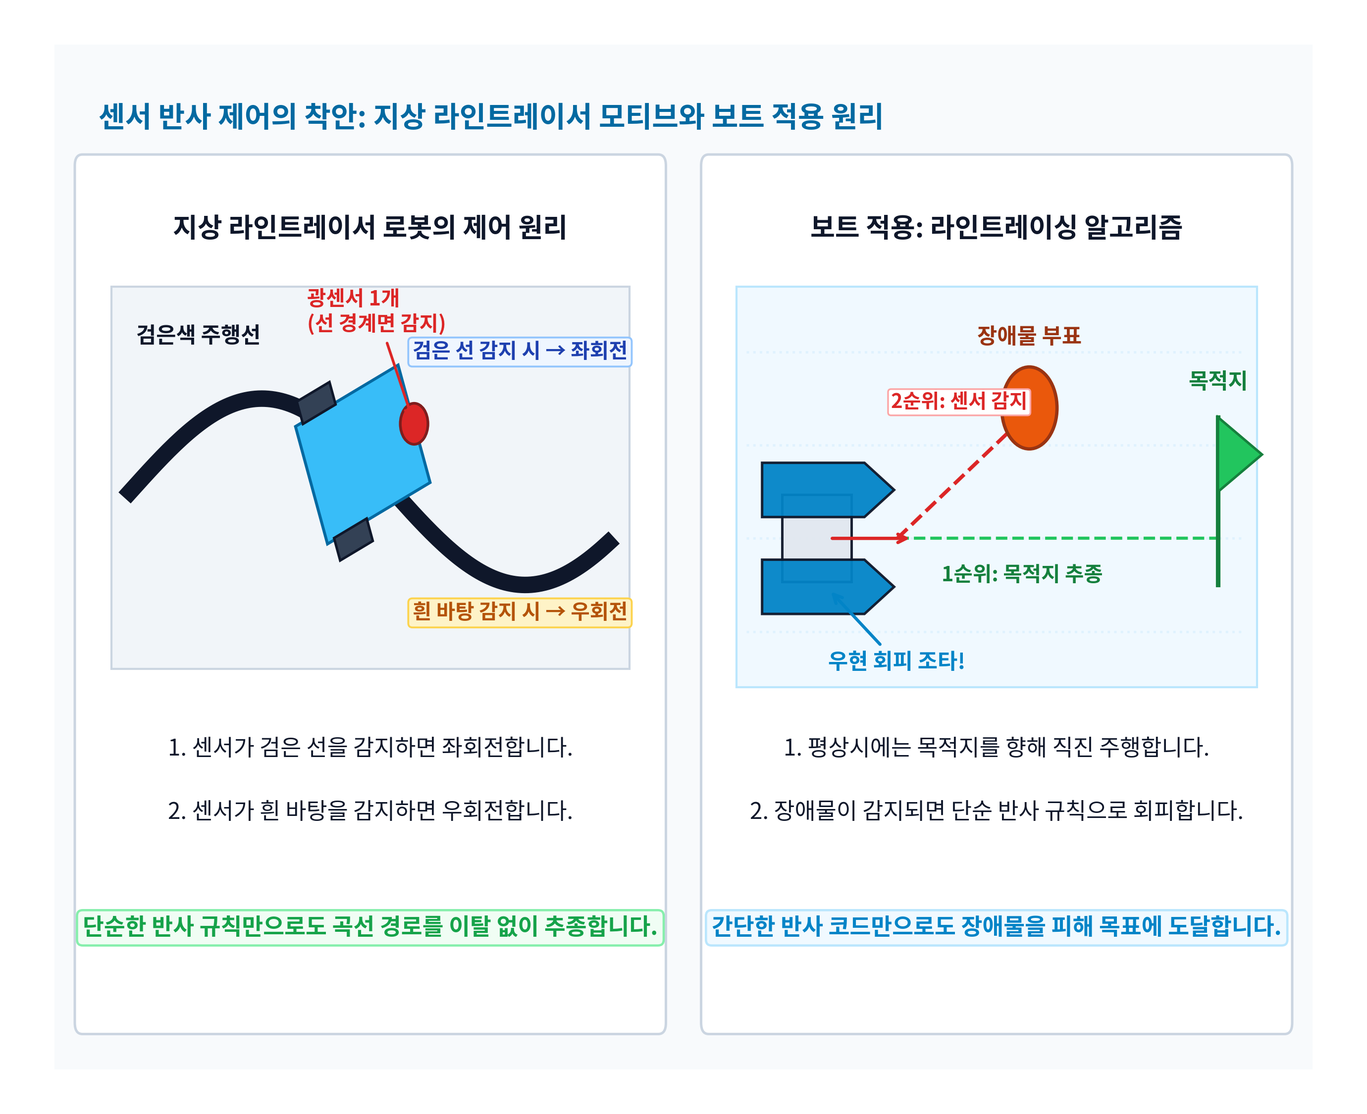
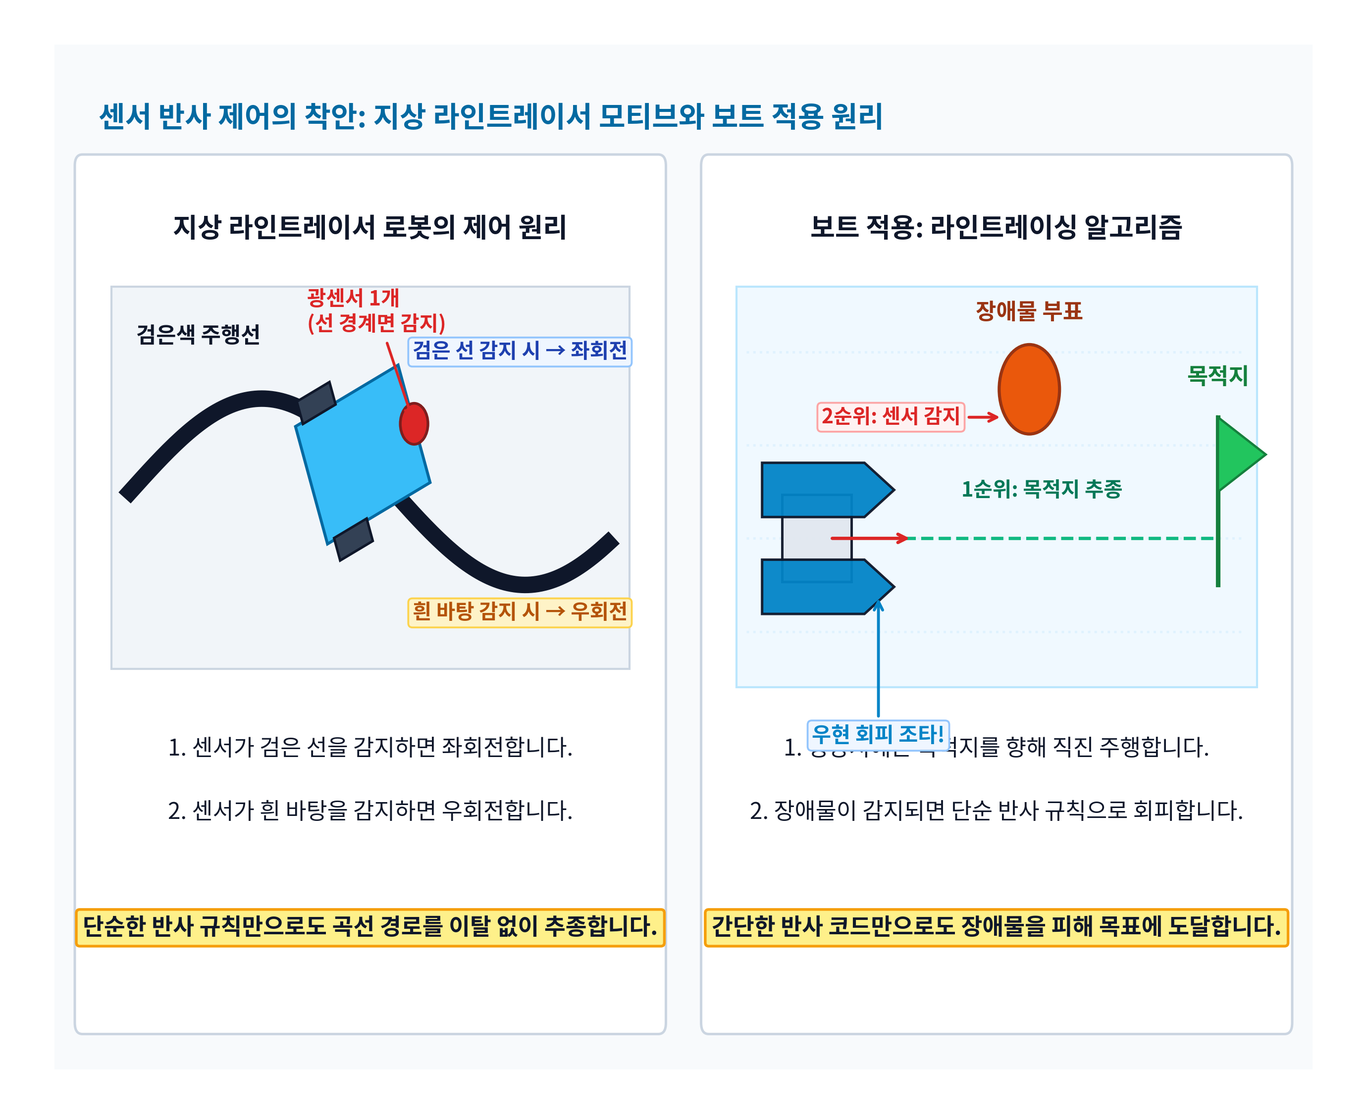
feat(sheet1): apply fluorescent highlighter styling to core sentences and takeaways

diff --git a/report4/generate_sheet1_master.py b/report4/generate_sheet1_master.py
@@ -129,8 +129,8 @@ def generate_subfig1():
     ax1.text(2.51, 1.72, "1. 센서가 검은 선을 감지하면 좌회전합니다.", ha='center', va='center', fontsize=11.0, color='#0F172A')
     ax1.text(2.51, 1.38, "2. 센서가 흰 바탕을 감지하면 우회전합니다.", ha='center', va='center', fontsize=11.0, color='#0F172A')
     ax1.text(2.51, 0.76, "단순한 반사 규칙만으로도 곡선 경로를 이탈 없이 추종합니다.", 
-             ha='center', va='center', fontsize=11.2, fontweight='bold', color=COLOR_SUCCESS,
-             bbox=dict(boxstyle='round,pad=0.25', fc=COLOR_SUCCESS_BG, ec=COLOR_SUCCESS_BORDER, lw=1.1))
+             ha='center', va='center', fontsize=11.2, fontweight='bold', color='#0F172A',
+             bbox=dict(boxstyle='round,pad=0.28,rounding_size=0.15', fc='#FEF08A', ec='#F59E0B', lw=1.3))
     
     # Right Column: Boat Adaptation
     ax1.add_patch(FancyBboxPatch((5.20, 0.25), 4.58, 4.60, boxstyle="round,pad=0.06", 
@@ -146,30 +146,32 @@ def generate_subfig1():
     
     goal_x, goal_y = 9.25, 2.85
     ax1.plot([goal_x, goal_x], [goal_y - 0.25, goal_y + 0.65], color='#15803D', lw=2.2, zorder=8)
-    ax1.add_patch(Polygon([(goal_x, goal_y + 0.65), (goal_x + 0.35, goal_y + 0.45), (goal_x, goal_y + 0.25)],
-                         closed=True, fc='#22C55E', ec='#15803D', lw=1.2, zorder=9))
-    ax1.text(goal_x, goal_y + 0.78, "목적지", ha='center', va='bottom', fontsize=10.5, fontweight='bold', color='#15803D')
+    ax1.add_patch(Polygon([(goal_x, goal_y + 0.65), (goal_x + 0.38, goal_y + 0.45), (goal_x, goal_y + 0.25)],
+                         closed=True, fc='#22C55E', ec='#15803D', lw=1.1, zorder=9))
+    ax1.text(goal_x, goal_y + 0.80, "목적지", ha='center', va='bottom', fontsize=11.0, fontweight='bold', color='#15803D')
     
-    ax1.plot([6.70, goal_x], [2.85, 2.85], color='#22C55E', lw=1.5, ls='--', zorder=4)
-    ax1.text(7.05, 2.62, "1순위: 목적지 추종", fontsize=10.0, fontweight='bold', color='#15803D')
+    ax1.plot([6.75, goal_x], [2.85, goal_y], color='#10B981', lw=1.6, ls='--', zorder=4)
+    ax1.text(7.85, 3.05, "1순위: 목적지 추종", ha='center', va='bottom', fontsize=10.0, fontweight='bold', color='#047857')
     
-    buoy_x, buoy_y = 7.75, 3.55
-    ax1.add_patch(Circle((buoy_x, buoy_y), 0.22, fc=COLOR_WARN, ec='#9A3412', lw=1.6, zorder=8))
-    ax1.text(buoy_x, buoy_y + 0.32, "장애물 부표", ha='center', va='bottom', fontsize=10.5, fontweight='bold', color='#9A3412')
+    buoy_gx, buoy_gy = 7.75, 3.65
+    ax1.add_patch(Circle((buoy_gx, buoy_gy), 0.24, fc=COLOR_WARN, ec='#9A3412', lw=1.5, zorder=8))
+    ax1.text(buoy_gx, buoy_gy + 0.35, "장애물 부표", ha='center', va='bottom', fontsize=10.8, fontweight='bold', color='#9A3412')
     
-    ax1.plot([6.70, buoy_x - 0.15], [2.85, buoy_y - 0.12], color='#DC2626', lw=1.8, ls='--', zorder=5)
-    ax1.text(6.65, 3.55, "2순위: 센서 감지", fontsize=9.6, fontweight='bold', color='#DC2626', zorder=10,
-             bbox=dict(boxstyle='round,pad=0.15', fc='#FFFFFF', ec='#FCA5A5', lw=0.8))
+    ax1.annotate('2순위: 센서 감지', xy=(buoy_gx - 0.20, buoy_gy - 0.15), xytext=(buoy_gx - 1.10, buoy_gy - 0.15),
+                 arrowprops=dict(arrowstyle='->', color='#DC2626', lw=1.4),
+                 ha='center', va='center', fontsize=9.8, fontweight='bold', color='#DC2626',
+                 bbox=dict(boxstyle='round,pad=0.2', fc='#FEF2F2', ec='#FCA5A5', lw=0.9), zorder=12)
     
-    ax1.annotate('우현 회피 조타!', xy=(6.15, 2.58), xytext=(6.15, 2.15),
-                 arrowprops=dict(arrowstyle='->', color='#0284C7', lw=1.5),
-                 fontsize=10.5, fontweight='bold', color='#0284C7', zorder=10)
+    ax1.annotate('우현 회피 조타!', xy=(6.55, 2.55), xytext=(6.55, 1.85),
+                 arrowprops=dict(arrowstyle='->', color=COLOR_PRIMARY, lw=1.4),
+                 ha='center', va='top', fontsize=10.2, fontweight='bold', color=COLOR_PRIMARY,
+                 bbox=dict(boxstyle='round,pad=0.2', fc='#EFF6FF', ec='#93C5FD', lw=0.9), zorder=12)
     
     ax1.text(7.49, 1.72, "1. 평상시에는 목적지를 향해 직진 주행합니다.", ha='center', va='center', fontsize=11.0, color='#0F172A')
     ax1.text(7.49, 1.38, "2. 장애물이 감지되면 단순 반사 규칙으로 회피합니다.", ha='center', va='center', fontsize=11.0, color='#0F172A')
     ax1.text(7.49, 0.76, "간단한 반사 코드만으로도 장애물을 피해 목표에 도달합니다.", 
-             ha='center', va='center', fontsize=11.2, fontweight='bold', color=COLOR_PRIMARY,
-             bbox=dict(boxstyle='round,pad=0.25', fc='#F0F9FF', ec='#BAE6FD', lw=1.1))
+             ha='center', va='center', fontsize=11.2, fontweight='bold', color='#0F172A',
+             bbox=dict(boxstyle='round,pad=0.28,rounding_size=0.15', fc='#FEF08A', ec='#F59E0B', lw=1.3))
     
     out_path = os.path.join(SUBFIG_DIR, 'subfig1_linetracer_and_boat_adaptation.png')
     plt.savefig(out_path, dpi=300, facecolor=COLOR_BG)
@@ -257,8 +259,8 @@ def generate_subfig2():
                  bbox=dict(boxstyle='round,pad=0.2', fc='#FFFFFF', ec=COLOR_BORDER, lw=0.8, alpha=0.95), zorder=15)
         
     ax2.text(5.0, 0.40, "단일 장애물 환경에서는 단순 반사 규칙만으로도 목표 지점에 도달했습니다.",
-             ha='center', va='center', fontsize=11.8, fontweight='bold', color=COLOR_SUCCESS,
-             bbox=dict(boxstyle='round,pad=0.3', fc=COLOR_SUCCESS_BG, ec=COLOR_SUCCESS_BORDER, lw=1.2), zorder=20)
+             ha='center', va='center', fontsize=11.8, fontweight='bold', color='#0F172A',
+             bbox=dict(boxstyle='round,pad=0.32,rounding_size=0.15', fc='#FEF08A', ec='#F59E0B', lw=1.3), zorder=20)
     ax2.legend(loc='upper left', fontsize=11.0, framealpha=0.9)
     
     out_path = os.path.join(SUBFIG_DIR, 'subfig2_initial_success_trajectory.png')
@@ -343,9 +345,15 @@ def generate_subfig3():
                  arrowprops=dict(arrowstyle='->', color='#16A34A', lw=2.2, ls='--'), zorder=4)
     ax3.text(5.6, 3.9, "목표 게이트 출구", ha='center', va='bottom', fontsize=11.0, fontweight='bold', color='#16A34A')
     
-    ax3.text(3.5, 1.15, "1. 통로 폭(1.6m)보다 안전마진 합(2.0m)이 더 큽니다.\n2. 안전마진이 중첩되어 열린 통로를 벽으로 오판합니다.\n3. 통로 진입을 회피하다 외곽 수조 벽에 충돌합니다.",
-             ha='center', va='center', fontsize=10.8, color='#991B1B', fontweight='bold',
-             bbox=dict(boxstyle='round,pad=0.35', fc=COLOR_DANGER_BG, ec=COLOR_DANGER_BORDER, lw=1.2), zorder=25)
+    ax3.add_patch(FancyBboxPatch((0.45, 0.40), 6.10, 1.48, boxstyle="round,pad=0.08", 
+                                 fc=COLOR_DANGER_BG, ec=COLOR_DANGER_BORDER, lw=1.2, zorder=24))
+    ax3.text(3.5, 1.55, "1. 통로 폭(1.6m)보다 안전마진 합(2.0m)이 더 큽니다.", 
+             ha='center', va='center', fontsize=10.5, color='#991B1B', fontweight='bold', zorder=25)
+    ax3.text(3.5, 1.14, "2. 안전마진이 중첩되어 열린 통로를 벽으로 오판합니다.", 
+             ha='center', va='center', fontsize=10.8, color='#78350F', fontweight='bold', zorder=26,
+             bbox=dict(boxstyle='round,pad=0.25,rounding_size=0.15', fc='#FEF08A', ec='#F59E0B', lw=1.2))
+    ax3.text(3.5, 0.72, "3. 통로 진입을 회피하다 외곽 수조 벽에 충돌합니다.", 
+             ha='center', va='center', fontsize=10.5, color='#991B1B', fontweight='bold', zorder=25)
     
     out_path = os.path.join(SUBFIG_DIR, 'subfig3_limitation1_gate_closure.png')
     plt.savefig(out_path, dpi=300, facecolor=COLOR_BG)
@@ -395,7 +403,8 @@ def generate_subfig4():
     ax_top.text(2.7, -1.75, "우현 반사 조타", ha='center', va='top', fontsize=10.5, fontweight='bold', color='#0284C7', 
                 bbox=dict(boxstyle='round,pad=0.2', fc='#FFFFFF', ec='#93C5FD', lw=0.9), zorder=35)
     ax_top.text(5.0, -2.50, "시간순 중첩 관찰: 단순 반사 제어를 반복하여 직선 경로에서도 좌우로 요동치며 전진합니다.", 
-                ha='center', va='bottom', fontsize=10.2, fontweight='bold', color='#DC2626', zorder=35)
+                ha='center', va='bottom', fontsize=10.2, fontweight='bold', color='#78350F', zorder=35,
+                bbox=dict(boxstyle='round,pad=0.22,rounding_size=0.12', fc='#FEF08A', ec='#F59E0B', lw=1.1))
 
     # Bottom Subplot: Quantitative Rudder Angle Time-Series Chattering
     ax_bot = fig.add_axes([0.08, 0.08, 0.88, 0.38])
@@ -425,12 +434,15 @@ def generate_subfig4():
                     fontsize=10.2, fontweight='bold', color='#B91C1C',
                     bbox=dict(boxstyle='round,pad=0.2', fc='#FFFFFF', ec=COLOR_DANGER_BORDER, lw=0.9), zorder=20)
 
-    ax_bot.text(5.0, -28.0, 
-                "1. 매 제어 프레임마다 단순 반사 규칙을 반복 계산하여 조타합니다.\n"
-                "2. 상태 제어나 완충 없이 즉각 반응하므로 좌우로 심하게 진동합니다.\n"
-                "3. 진동으로 인해 조타 구동부가 마모되고 전진 추진 효율이 저하됩니다.",
-                ha='center', va='center', fontsize=10.5, fontweight='bold', color='#991B1B',
-                bbox=dict(boxstyle='round,pad=0.35', fc=COLOR_DANGER_BG, ec=COLOR_DANGER_BORDER, lw=1.2), zorder=25)
+    ax_bot.add_patch(FancyBboxPatch((0.5, -36.5), 9.0, 17.0, boxstyle="round,pad=0.5", 
+                                    fc=COLOR_DANGER_BG, ec=COLOR_DANGER_BORDER, lw=1.2, zorder=24))
+    ax_bot.text(5.0, -23.0, "1. 매 제어 프레임마다 단순 반사 규칙을 반복 계산하여 조타합니다.", 
+                ha='center', va='center', fontsize=10.2, color='#991B1B', fontweight='bold', zorder=25)
+    ax_bot.text(5.0, -28.0, "2. 상태 제어나 완충 없이 즉각 반응하므로 좌우로 심하게 진동합니다.", 
+                ha='center', va='center', fontsize=10.5, color='#78350F', fontweight='bold', zorder=26,
+                bbox=dict(boxstyle='round,pad=0.25,rounding_size=0.15', fc='#FEF08A', ec='#F59E0B', lw=1.2))
+    ax_bot.text(5.0, -33.0, "3. 진동으로 인해 조타 구동부가 마모되고 전진 추진 효율이 저하됩니다.", 
+                ha='center', va='center', fontsize=10.2, color='#991B1B', fontweight='bold', zorder=25)
 
     out_path = os.path.join(SUBFIG_DIR, 'subfig4_violent_chattering_overlapping_boats.png')
     plt.savefig(out_path, dpi=300, facecolor=COLOR_BG)
@@ -482,7 +494,7 @@ def generate_subfig5():
     bA_x, bA_y = 3.4, 2.5
     ax5.add_patch(Circle((bA_x, bA_y), 0.70, fc='#FEE2E2', ec='#EF4444', lw=1.0, ls='--', alpha=0.5, zorder=2))
     ax5.add_patch(Circle((bA_x, bA_y), 0.25, fc=COLOR_WARN, ec='#9A3412', lw=1.6, zorder=6))
-    ax5.text(bA_x, bA_y - 0.40, "장애물 A\n(직진 경로 차단)", ha='center', va='top', fontsize=11.0, fontweight='bold', color='#9A3412')
+    ax5.text(bA_x, bA_y - 0.35, "장애물 A (직진 차단)", ha='center', va='top', fontsize=10.5, fontweight='bold', color='#9A3412')
 
     # Obstacle B positioned offset to the left/upward at (5.2, 4.4)
     bB_x, bB_y = 5.2, 4.4
@@ -532,13 +544,15 @@ def generate_subfig5():
                 fontsize=10.8, fontweight='bold', color='#991B1B',
                 bbox=dict(boxstyle='round,pad=0.3', fc='#FEF2F2', ec='#DC2626', lw=1.4), zorder=35)
 
-    # Declarative 3-Sentence Summary at Bottom
-    ax5.text(4.0, 0.95, 
-            "1. 전방 장애물 A를 감지한 직후 좌현으로 회피합니다.\n"
-            "2. 인접 장애물 B를 인식하지 못해 충돌 경로로 진입합니다.\n"
-            "3. 단순 반사 규칙으로는 다중 장애물 환경에 대응하지 못합니다.",
-            ha='center', va='center', fontsize=10.5, fontweight='bold', color='#991B1B',
-            bbox=dict(boxstyle='round,pad=0.35', fc=COLOR_DANGER_BG, ec=COLOR_DANGER_BORDER, lw=1.2), zorder=25)
+    ax5.add_patch(FancyBboxPatch((0.5, 0.15), 7.0, 1.35, boxstyle="round,pad=0.06", 
+                                 fc=COLOR_DANGER_BG, ec=COLOR_DANGER_BORDER, lw=1.2, zorder=24))
+    ax5.text(4.0, 1.25, "1. 전방 장애물 A를 감지한 직후 좌현으로 회피합니다.", 
+             ha='center', va='center', fontsize=10.5, color='#991B1B', fontweight='bold', zorder=25)
+    ax5.text(4.0, 0.85, "2. 인접 장애물 B를 인식하지 못해 충돌 경로로 진입합니다.", 
+             ha='center', va='center', fontsize=10.5, color='#991B1B', fontweight='bold', zorder=25)
+    ax5.text(4.0, 0.45, "3. 단순 반사 규칙으로는 다중 장애물 환경에 대응하지 못합니다.", 
+             ha='center', va='center', fontsize=10.8, color='#78350F', fontweight='bold', zorder=26,
+             bbox=dict(boxstyle='round,pad=0.25,rounding_size=0.15', fc='#FEF08A', ec='#F59E0B', lw=1.2))
 
     out_path = os.path.join(SUBFIG_DIR, 'subfig5_limitation3_scalability_collision.png')
     plt.savefig(out_path, dpi=300, facecolor=COLOR_BG)
@@ -563,8 +577,9 @@ def generate_sheet_1():
     # --------------------------------------------------------------------------
     # TOP MASTER HEADLINE (Prominent single-sentence summary, Strictly 1 line!)
     # --------------------------------------------------------------------------
-    fig.text(0.025, 0.972, "라인트레이싱의 장애물 반사 제어로 초기 단일 회피에는 성공했으나, 실제 환경에서의 진동 문제와 확장성 한계에 직면했습니다.", 
-             fontsize=21.0, fontweight='bold', color=COLOR_TEXT_MAIN, va='top')
+    fig.text(0.025, 0.970, "라인트레이싱의 장애물 반사 제어로 초기 단일 회피에는 성공했으나, 실제 환경에서의 진동 문제와 확장성 한계에 직면했습니다.", 
+             fontsize=19.5, fontweight='bold', color=COLOR_TEXT_MAIN, va='top',
+             bbox=dict(boxstyle='round,pad=0.25,rounding_size=0.12', fc='#FEF08A', ec='#F59E0B', lw=1.3))
     
     # --------------------------------------------------------------------------
     # SUBPLOT 1: 라인트레이서 vs 자율운항보트 개념 (left: 0.025, bottom: 0.525, width: 0.465, height: 0.380)
@@ -621,8 +636,8 @@ def generate_sheet_1():
     ax1.text(2.51, 1.72, "1. 센서가 검은 선을 감지하면 좌회전합니다.", ha='center', va='center', fontsize=10.6, color='#0F172A')
     ax1.text(2.51, 1.38, "2. 센서가 흰 바탕을 감지하면 우회전합니다.", ha='center', va='center', fontsize=10.6, color='#0F172A')
     ax1.text(2.51, 0.76, "단순한 반사 규칙만으로도 곡선 경로를 이탈 없이 추종합니다.", 
-             ha='center', va='center', fontsize=10.8, fontweight='bold', color=COLOR_SUCCESS,
-             bbox=dict(boxstyle='round,pad=0.25', fc=COLOR_SUCCESS_BG, ec=COLOR_SUCCESS_BORDER, lw=1.1))
+             ha='center', va='center', fontsize=10.8, fontweight='bold', color='#0F172A',
+             bbox=dict(boxstyle='round,pad=0.28,rounding_size=0.15', fc='#FEF08A', ec='#F59E0B', lw=1.2))
     
     # Right Column: Boat Adaptation
     ax1.add_patch(FancyBboxPatch((5.20, 0.25), 4.58, 4.60, boxstyle="round,pad=0.06", 
@@ -660,8 +675,8 @@ def generate_sheet_1():
     ax1.text(7.49, 1.72, "1. 평상시에는 목적지를 향해 직진 주행합니다.", ha='center', va='center', fontsize=10.6, color='#0F172A')
     ax1.text(7.49, 1.38, "2. 장애물이 감지되면 단순 반사 규칙으로 회피합니다.", ha='center', va='center', fontsize=10.6, color='#0F172A')
     ax1.text(7.49, 0.76, "간단한 반사 코드만으로도 장애물을 피해 목표에 도달합니다.", 
-             ha='center', va='center', fontsize=10.8, fontweight='bold', color=COLOR_PRIMARY,
-             bbox=dict(boxstyle='round,pad=0.25', fc='#F0F9FF', ec='#BAE6FD', lw=1.1))
+             ha='center', va='center', fontsize=10.8, fontweight='bold', color='#0F172A',
+             bbox=dict(boxstyle='round,pad=0.28,rounding_size=0.15', fc='#FEF08A', ec='#F59E0B', lw=1.2))
     
     # --------------------------------------------------------------------------
     # SUBPLOT 2: 초기 개방 수역 회피 성공 궤적 (left: 0.510, bottom: 0.525, width: 0.465, height: 0.380)
@@ -739,8 +754,8 @@ def generate_sheet_1():
                  bbox=dict(boxstyle='round,pad=0.2', fc='#FFFFFF', ec=COLOR_BORDER, lw=0.8, alpha=0.95), zorder=15)
         
     ax2.text(5.0, 0.40, "단일 장애물 환경에서는 단순 반사 규칙만으로도 목표 지점에 도달했습니다.",
-             ha='center', va='center', fontsize=11.0, fontweight='bold', color=COLOR_SUCCESS,
-             bbox=dict(boxstyle='round,pad=0.3', fc=COLOR_SUCCESS_BG, ec=COLOR_SUCCESS_BORDER, lw=1.2), zorder=20)
+             ha='center', va='center', fontsize=11.0, fontweight='bold', color='#0F172A',
+             bbox=dict(boxstyle='round,pad=0.30,rounding_size=0.15', fc='#FEF08A', ec='#F59E0B', lw=1.3), zorder=20)
     ax2.legend(loc='upper left', fontsize=10.2, framealpha=0.9)
 
     # --------------------------------------------------------------------------
@@ -823,9 +838,15 @@ def generate_sheet_1():
                  arrowprops=dict(arrowstyle='->', color='#16A34A', lw=2.2, ls='--'), zorder=4)
     ax3.text(5.6, 3.9, "목표 게이트 출구", ha='center', va='bottom', fontsize=10.2, fontweight='bold', color='#16A34A')
     
-    ax3.text(3.5, 1.15, "1. 통로 폭(1.6m)보다 안전마진 합(2.0m)이 더 큽니다.\n2. 안전마진이 중첩되어 열린 통로를 벽으로 오판합니다.\n3. 통로 진입을 회피하다 외곽 수조 벽에 충돌합니다.",
-             ha='center', va='center', fontsize=9.8, color='#991B1B', fontweight='bold',
-             bbox=dict(boxstyle='round,pad=0.35', fc=COLOR_DANGER_BG, ec=COLOR_DANGER_BORDER, lw=1.2), zorder=25)
+    ax3.add_patch(FancyBboxPatch((0.45, 0.40), 6.10, 1.48, boxstyle="round,pad=0.08", 
+                                 fc=COLOR_DANGER_BG, ec=COLOR_DANGER_BORDER, lw=1.2, zorder=24))
+    ax3.text(3.5, 1.55, "1. 통로 폭(1.6m)보다 안전마진 합(2.0m)이 더 큽니다.", 
+             ha='center', va='center', fontsize=9.8, color='#991B1B', fontweight='bold', zorder=25)
+    ax3.text(3.5, 1.14, "2. 안전마진이 중첩되어 열린 통로를 벽으로 오판합니다.", 
+             ha='center', va='center', fontsize=10.2, color='#78350F', fontweight='bold', zorder=26,
+             bbox=dict(boxstyle='round,pad=0.22,rounding_size=0.15', fc='#FEF08A', ec='#F59E0B', lw=1.2))
+    ax3.text(3.5, 0.72, "3. 통로 진입을 회피하다 외곽 수조 벽에 충돌합니다.", 
+             ha='center', va='center', fontsize=9.8, color='#991B1B', fontweight='bold', zorder=25)
 
     # --------------------------------------------------------------------------
     # SUBPLOT 4: 한계 2 - 극심한 진동과 선체 불안정성 (left: 0.347, width: 0.304)
@@ -866,7 +887,8 @@ def generate_sheet_1():
     ax4_top.text(2.7, -1.70, "우현 반사 조타", ha='center', va='top', fontsize=9.6, fontweight='bold', color='#0284C7', 
                  bbox=dict(boxstyle='round,pad=0.2', fc='#FFFFFF', ec='#93C5FD', lw=0.9), zorder=35)
     ax4_top.text(5.0, -2.48, "시간순 중첩 관찰: 단순 반사 제어를 반복하여 직선 경로에서도 좌우로 요동치며 전진합니다.", 
-                 ha='center', va='bottom', fontsize=9.5, fontweight='bold', color='#DC2626', zorder=35)
+                 ha='center', va='bottom', fontsize=9.5, fontweight='bold', color='#78350F', zorder=35,
+                 bbox=dict(boxstyle='round,pad=0.20,rounding_size=0.12', fc='#FEF08A', ec='#F59E0B', lw=1.1))
 
     # Bottom Card: Rudder Angle Chattering Time Series
     ax4_bot = fig.add_axes([0.347, 0.050, 0.304, 0.172])
@@ -896,12 +918,15 @@ def generate_sheet_1():
                      fontsize=9.5, fontweight='bold', color='#B91C1C',
                      bbox=dict(boxstyle='round,pad=0.2', fc='#FFFFFF', ec=COLOR_DANGER_BORDER, lw=0.9), zorder=20)
 
-    ax4_bot.text(5.0, -28.0, 
-                 "1. 매 제어 프레임마다 단순 반사 규칙을 반복 계산하여 조타합니다.\n"
-                 "2. 상태 제어나 완충 없이 즉각 반응하므로 좌우로 심하게 진동합니다.\n"
-                 "3. 진동으로 인해 조타 구동부가 마모되고 전진 추진 효율이 저하됩니다.",
-                 ha='center', va='center', fontsize=9.6, fontweight='bold', color='#991B1B',
-                 bbox=dict(boxstyle='round,pad=0.35', fc=COLOR_DANGER_BG, ec=COLOR_DANGER_BORDER, lw=1.2), zorder=25)
+    ax4_bot.add_patch(FancyBboxPatch((0.5, -36.5), 9.0, 17.0, boxstyle="round,pad=0.5", 
+                                     fc=COLOR_DANGER_BG, ec=COLOR_DANGER_BORDER, lw=1.2, zorder=24))
+    ax4_bot.text(5.0, -23.0, "1. 매 제어 프레임마다 단순 반사 규칙을 반복 계산하여 조타합니다.", 
+                 ha='center', va='center', fontsize=9.6, color='#991B1B', fontweight='bold', zorder=25)
+    ax4_bot.text(5.0, -28.0, "2. 상태 제어나 완충 없이 즉각 반응하므로 좌우로 심하게 진동합니다.", 
+                 ha='center', va='center', fontsize=9.8, color='#78350F', fontweight='bold', zorder=26,
+                 bbox=dict(boxstyle='round,pad=0.22,rounding_size=0.15', fc='#FEF08A', ec='#F59E0B', lw=1.2))
+    ax4_bot.text(5.0, -33.0, "3. 진동으로 인해 조타 구동부가 마모되고 전진 추진 효율이 저하됩니다.", 
+                 ha='center', va='center', fontsize=9.6, color='#991B1B', fontweight='bold', zorder=25)
 
     # --------------------------------------------------------------------------
     # SUBPLOT 5: 한계 3 - 확장성의 한계 & 다중 장애물 연쇄 충돌 (left: 0.669, bottom: 0.050, width: 0.304, height: 0.385)
@@ -945,7 +970,7 @@ def generate_sheet_1():
     bA_x, bA_y = 3.4, 2.5
     ax5.add_patch(Circle((bA_x, bA_y), 0.70, fc='#FEE2E2', ec='#EF4444', lw=1.0, ls='--', alpha=0.5, zorder=2))
     ax5.add_patch(Circle((bA_x, bA_y), 0.25, fc=COLOR_WARN, ec='#9A3412', lw=1.6, zorder=6))
-    ax5.text(bA_x, bA_y - 0.40, "장애물 A\n(직진 경로 차단)", ha='center', va='top', fontsize=10.2, fontweight='bold', color='#9A3412')
+    ax5.text(bA_x, bA_y - 0.35, "장애물 A (직진 차단)", ha='center', va='top', fontsize=9.8, fontweight='bold', color='#9A3412')
 
     # Obstacle B offset at (5.2, 4.4)
     bB_x, bB_y = 5.2, 4.4
@@ -995,13 +1020,15 @@ def generate_sheet_1():
                  fontsize=10.0, fontweight='bold', color='#991B1B',
                  bbox=dict(boxstyle='round,pad=0.3', fc='#FEF2F2', ec='#DC2626', lw=1.4), zorder=35)
 
-    # Declarative 3-Sentence Summary at Bottom
-    ax5.text(4.0, 0.95, 
-             "1. 전방 장애물 A를 감지한 직후 좌현으로 회피합니다.\n"
-             "2. 인접 장애물 B를 인식하지 못해 충돌 경로로 진입합니다.\n"
-             "3. 단순 반사 규칙으로는 다중 장애물 환경에 대응하지 못합니다.",
-             ha='center', va='center', fontsize=9.8, fontweight='bold', color='#991B1B',
-             bbox=dict(boxstyle='round,pad=0.35', fc=COLOR_DANGER_BG, ec=COLOR_DANGER_BORDER, lw=1.2), zorder=25)
+    ax5.add_patch(FancyBboxPatch((0.5, 0.15), 7.0, 1.35, boxstyle="round,pad=0.06", 
+                                 fc=COLOR_DANGER_BG, ec=COLOR_DANGER_BORDER, lw=1.2, zorder=24))
+    ax5.text(4.0, 1.25, "1. 전방 장애물 A를 감지한 직후 좌현으로 회피합니다.", 
+             ha='center', va='center', fontsize=9.8, color='#991B1B', fontweight='bold', zorder=25)
+    ax5.text(4.0, 0.85, "2. 인접 장애물 B를 인식하지 못해 충돌 경로로 진입합니다.", 
+             ha='center', va='center', fontsize=9.8, color='#991B1B', fontweight='bold', zorder=25)
+    ax5.text(4.0, 0.45, "3. 단순 반사 규칙으로는 다중 장애물 환경에 대응하지 못합니다.", 
+             ha='center', va='center', fontsize=10.0, color='#78350F', fontweight='bold', zorder=26,
+             bbox=dict(boxstyle='round,pad=0.22,rounding_size=0.15', fc='#FEF08A', ec='#F59E0B', lw=1.2))
 
     # Save Master Sheet
     plt.savefig(MASTER_SHEET_FILE, dpi=300, facecolor=COLOR_BG)
